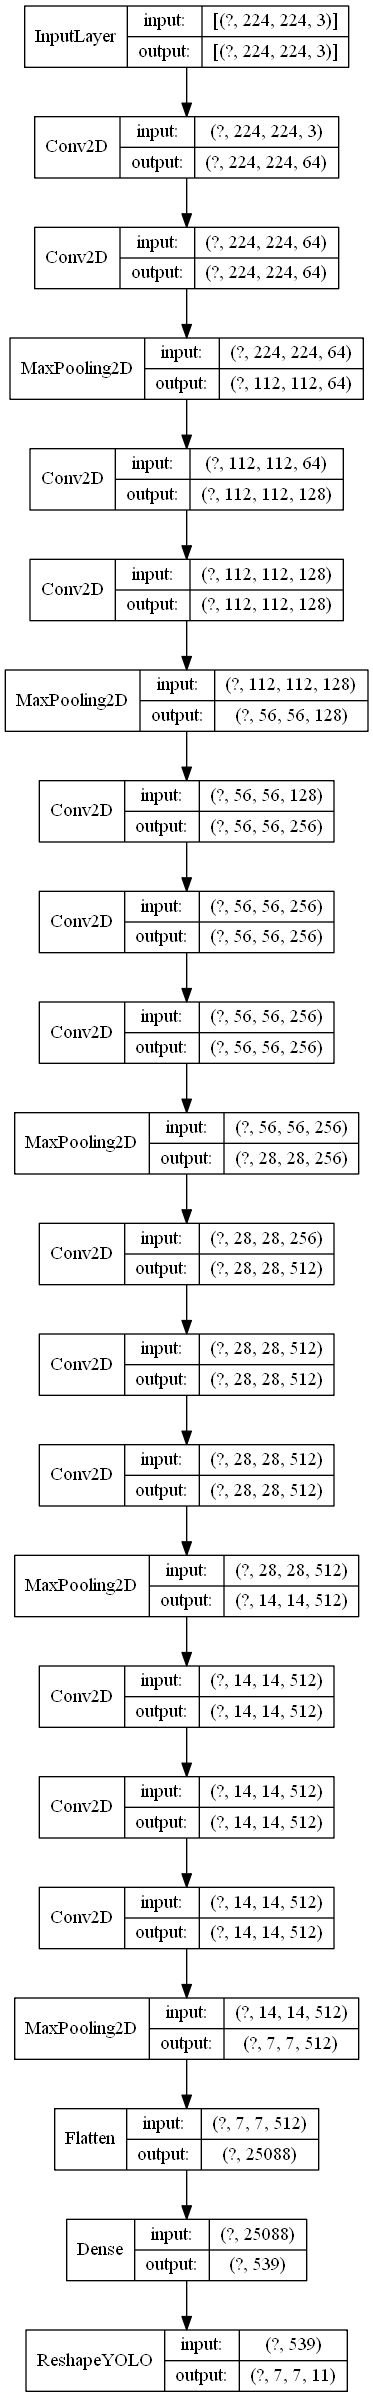
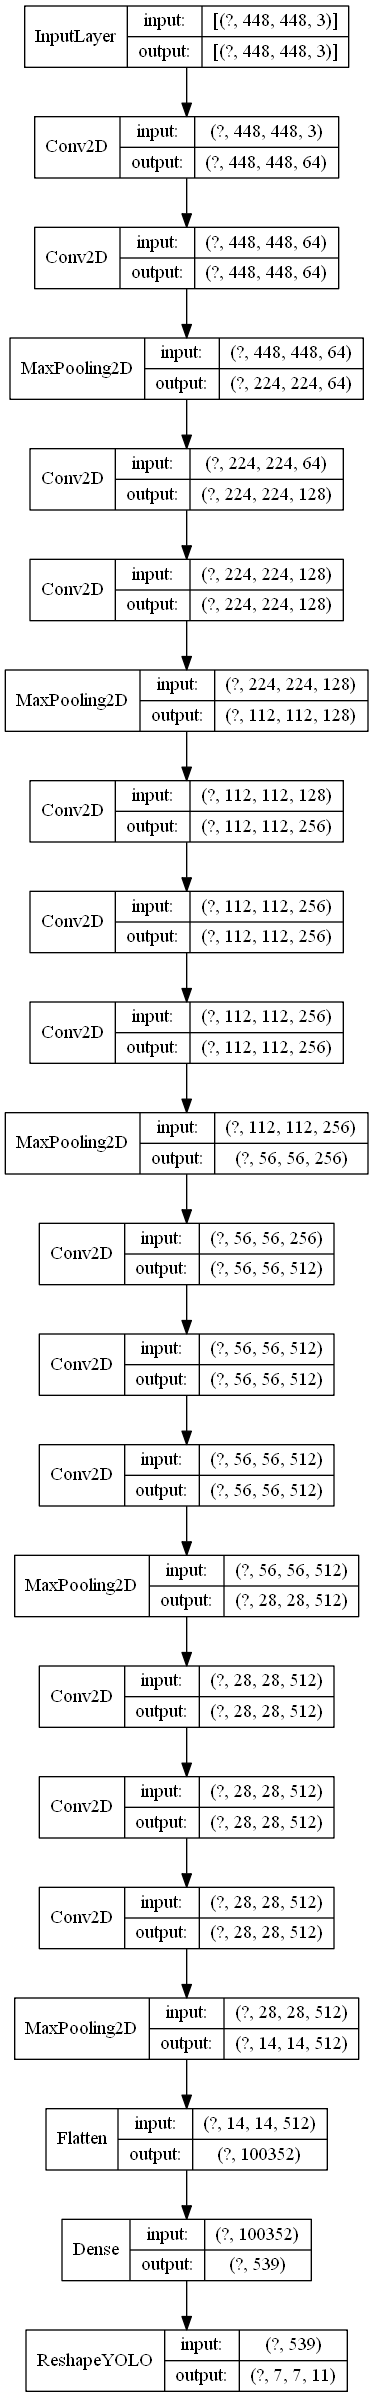
There is something wrong with BN

diff --git a/YOLOv2/trainAirplane.py b/YOLOv2/trainAirplane.py
@@ -1,18 +1,213 @@
 import os
 import tensorflow as tf
+import tensorflow.keras.backend as K
+from tensorflow.keras import Model
+from tensorflow.keras.optimizers import Adam
+from tensorflow.keras.layers import Input, Dense, BatchNormalization
+from tensorflow.keras.callbacks import ModelCheckpoint
 
-from YOLOv1.trainAirplane import ReshapeYOLO, yolo_loss
+from VOC2007.yolo.yolo import yolo_head, iou
+from YOLOv1.trainAirplane import ReshapeYOLO, annotation_path, img_path
+from data_sequence import SequenceForAirplanes
+from utils import X_Y_W_H_To_Min_Max
 
-save_dir = '../checkpoints'
-weights_path = os.path.join(save_dir, 'airplanes-weights.hdf5')
-
-model = tf.keras.models.load_model(
-    weights_path,
-    custom_objects={
-        "ReshapeYOLO": ReshapeYOLO,
-        "yolo_loss": yolo_loss
-    }
-)
+image_size = 448
 
 
-print("Done")
+def yolo_loss(y_true, y_pred):
+    label_class = y_true[..., :1]  # ? * 7 * 7 * 1
+    # 分类
+    label_box = y_true[..., 1:5]  # ? * 7 * 7 * 4
+    # BB1的坐标
+    response_mask = y_true[..., 5]  # ? * 7 * 7
+    # BB1的置信度
+    response_mask = K.expand_dims(response_mask)  # ? * 7 * 7 * 1
+
+    predict_class = y_pred[..., :1]  # ? * 7 * 7 * 1
+    # 分类
+    predict_trust = y_pred[..., 1:3]  # ? * 7 * 7 * 2
+    # BB1和BB2的置信度
+    predict_box = y_pred[..., 3:]  # ? * 7 * 7 * 8
+    # BB1和BB2的坐标
+
+    _label_box = K.reshape(label_box, [-1, 7, 7, 1, 4])
+    _predict_box = K.reshape(predict_box, [-1, 7, 7, 2, 4])
+
+    label_xy, label_wh = yolo_head(_label_box, img_size=image_size)  # ? * 7 * 7 * 1 * 2, ? * 7 * 7 * 1 * 2
+    label_xy = K.expand_dims(label_xy, 3)  # ? * 7 * 7 * 1 * 1 * 2
+    label_wh = K.expand_dims(label_wh, 3)  # ? * 7 * 7 * 1 * 1 * 2
+    label_xy_min, label_xy_max = X_Y_W_H_To_Min_Max(label_xy,
+                                                    label_wh)  # ? * 7 * 7 * 1 * 1 * 2, ? * 7 * 7 * 1 * 1 * 2
+
+    predict_xy, predict_wh = yolo_head(_predict_box, img_size=image_size)  # ? * 7 * 7 * 2 * 2, ? * 7 * 7 * 2 * 2
+    predict_xy = K.expand_dims(predict_xy, 4)  # ? * 7 * 7 * 2 * 1 * 2
+    predict_wh = K.expand_dims(predict_wh, 4)  # ? * 7 * 7 * 2 * 1 * 2
+    predict_xy_min, predict_xy_max = X_Y_W_H_To_Min_Max(predict_xy,
+                                                        predict_wh)  # ? * 7 * 7 * 2 * 1 * 2, ? * 7 * 7 * 2 * 1 * 2
+
+    iou_scores = iou(predict_xy_min, predict_xy_max, label_xy_min, label_xy_max)  # ? * 7 * 7 * 2 * 1
+    best_ious = K.max(iou_scores, axis=4)  # ? * 7 * 7 * 2
+    best_box = K.max(best_ious, axis=3, keepdims=True)  # ? * 7 * 7 * 1
+
+    box_mask = K.cast(best_ious >= best_box, K.dtype(best_ious))  # ? * 7 * 7 * 2
+
+    no_object_loss = 0.5 * (1 - box_mask * response_mask) * K.square(0 - predict_trust)
+    object_loss = box_mask * response_mask * K.square(1 - predict_trust)
+
+    confidence_loss = no_object_loss + object_loss
+    confidence_loss = K.sum(confidence_loss)
+
+    class_loss = response_mask * K.square(label_class - predict_class)
+    class_loss = K.sum(class_loss)
+
+    _label_box = K.reshape(label_box, [-1, 7, 7, 1, 4])
+    _predict_box = K.reshape(predict_box, [-1, 7, 7, 2, 4])
+
+    label_xy, label_wh = yolo_head(_label_box, img_size=image_size)  # ? * 7 * 7 * 1 * 2, ? * 7 * 7 * 1 * 2
+    predict_xy, predict_wh = yolo_head(_predict_box, img_size=image_size)  # ? * 7 * 7 * 2 * 2, ? * 7 * 7 * 2 * 2
+
+    box_mask = K.expand_dims(box_mask)
+    response_mask = K.expand_dims(response_mask)
+
+    box_loss = 5 * box_mask * response_mask * K.square((label_xy - predict_xy) / image_size)
+    box_loss += 5 * box_mask * response_mask * K.square((K.sqrt(label_wh) - K.sqrt(predict_wh)) / image_size)
+    box_loss = K.sum(box_loss)
+    K.print_tensor("Conf Loss")
+    K.print_tensor(confidence_loss)
+    K.print_tensor("Class Loss")
+    K.print_tensor(class_loss)
+    K.print_tensor("Box Loss")
+    K.print_tensor(box_loss)
+    loss = confidence_loss + class_loss + box_loss
+
+    return loss
+
+
+def ChangeInputSize():
+    save_dir = '../checkpoints'
+    model_path = os.path.join(save_dir, 'airplanes-weights.hdf5')
+    previous_model = tf.keras.models.load_model(
+        model_path,
+        custom_objects={
+            "ReshapeYOLO": ReshapeYOLO,
+            "yolo_loss": yolo_loss
+        }
+    )
+    y = Input((448, 448, 3))
+    x = y
+    for layer in previous_model.layers[1:20]:
+        x = layer(x)
+    x = Dense(539, activation='linear', name='connected_0')(x)
+    x = ReshapeYOLO((7, 7, 11))(x)
+    v2 = Model(inputs=y, outputs=x)
+    v2.compile(loss=yolo_loss, optimizer='adam')
+    tf.keras.utils.plot_model(
+        v2,
+        to_file='../model.png',
+        show_shapes=True,
+        show_layer_names=False,
+        rankdir='TB',
+        expand_nested=False,
+        dpi=96
+    )
+    v2.save('..\\TrainedModels\\airplanes-tiny-yolov2.hdf5')
+    print("Done")
+
+
+def AddBatchNorm():
+    model_path = "..\\TrainedModels\\airplanes-tiny-yolov2.hdf5"
+
+    previous_model = tf.keras.models.load_model(
+        model_path,
+        custom_objects={
+            "ReshapeYOLO": ReshapeYOLO,
+            "yolo_loss": yolo_loss
+        }
+    )
+    tf.keras.utils.plot_model(
+        previous_model,
+        to_file='../model.png',
+        show_shapes=True,
+        show_layer_names=False,
+        rankdir='TB',
+        expand_nested=False,
+        dpi=96
+    )
+    x = None
+    for layer in previous_model.layers:
+        if x is not None:
+            x = layer(x)
+            if type(layer) == tf.keras.layers.Conv2D:
+                x = BatchNormalization()(x)
+        elif type(layer) == tf.keras.layers.Conv2D:
+            x = layer.output
+            x = BatchNormalization()(x)
+        print(type(layer))
+    v2 = Model(inputs=previous_model.input, outputs=x)
+    v2.compile(loss=yolo_loss, optimizer='adam')
+    tf.keras.utils.plot_model(
+        v2,
+        to_file='../model2.png',
+        show_shapes=True,
+        show_layer_names=False,
+        rankdir='TB',
+        expand_nested=False,
+        dpi=96
+    )
+    v2.save('..\\TrainedModels\\YOLOv2.hdf5')
+    print("Done")
+
+
+def trainV2():
+    # weights_path = '..\\TrainedModels\\YOLOv2.hdf5'
+    save_dir = '../checkpoints'
+    weights_path = os.path.join(save_dir, 'V2-weights.hdf5')
+    # weights_path = "..\\TrainedModels\\airplanes-tiny-yolov2.hdf5"
+
+    model = tf.keras.models.load_model(
+        weights_path,
+        custom_objects={
+            "ReshapeYOLO": ReshapeYOLO,
+            "yolo_loss": yolo_loss
+        }
+    )
+    tf.keras.utils.plot_model(
+        model,
+        to_file='../model.png',
+        show_shapes=True,
+        show_layer_names=False,
+        rankdir='TB',
+        expand_nested=False,
+        dpi=96
+    )
+    model.compile(loss=yolo_loss, optimizer=Adam(lr=0.0001))
+    input_shape = tuple(model.input.shape[1:])
+    train_generator = SequenceForAirplanes(
+        'train', annotation_path, img_path, input_shape, 8)
+    validation_generator = SequenceForAirplanes(
+        'val', annotation_path, img_path, input_shape, 1)
+    save_dir = '../checkpoints'
+    weights_path = os.path.join(save_dir, 'V2-weights.hdf5')
+    checkpoint = ModelCheckpoint(
+        weights_path,
+        monitor='val_loss',
+        verbose=1,
+        save_weights_only=False,
+        save_best_only=True
+    )
+    with tf.device('/gpu:0'):
+        model.fit_generator(
+            train_generator,
+            steps_per_epoch=len(train_generator),
+            epochs=100,
+            validation_data=validation_generator,
+            validation_steps=len(validation_generator),
+            # use_multiprocessing=True,
+            callbacks=[checkpoint],
+            workers=4,
+            verbose=1
+        )
+
+
+if __name__ == '__main__':
+    trainV2()

diff --git a/YOLOv2/testAirplane.py b/YOLOv2/testAirplane.py
@@ -1,38 +1,39 @@
 import os
+
 import cv2
 import numpy as np
 import tensorflow as tf
-from tensorflow.keras import Model
+
 from VOC2007.tiny_yolov1 import YOLO_head, iou
-from YOLOv1.trainAirplane import model_tiny_YOLOv1, ReshapeYOLO, yolo_loss
-from utils import X_Y_W_H_To_Min_Max, load_img
+from YOLOv1.trainAirplane import ReshapeYOLO
+from YOLOv2.trainAirplane import yolo_loss
+from utils import load_img, X_Y_W_H_To_Min_Max
 
 classes_name = ['aeroplane']
+image_size = 448
 
 
-class TinyYOLOv1(object):
-    def __init__(self, weights_path):
-        self.weights_path = weights_path
-        self.classes_name = ['aeroplane']
-        self.model = tf.keras.models.load_model(
-            self.weights_path,
-            custom_objects={
-                "ReshapeYOLO": ReshapeYOLO,
-                "yolo_loss": yolo_loss
-            }
-        )
-        self.inputs = self.model.input
-
-    def predict(self, input_path):
-        image, _, _ = load_img(path=input_path, shape=self.inputs.shape[1:])
-        image = np.expand_dims(image, axis=0)
-        y = self.model.predict(image, batch_size=1)
-        return y
+def testV2():
+    save_dir = '../checkpoints'
+    weights_path = os.path.join(save_dir, 'V2-weights.hdf5')
+    model = tf.keras.models.load_model(
+        weights_path,
+        custom_objects={
+            "ReshapeYOLO": ReshapeYOLO,
+            "yolo_loss": yolo_loss
+        }
+    )
+    path = '../Data/Images'
+    for e, i in enumerate(os.listdir(path)):
+        if i.startswith("airplane"):
+            predict_single_file(model=model, image_path=os.path.join(path, i))
 
 
-def _main(image_path, tiny_YOLO_v1):
-    prediction = tiny_YOLO_v1.predict(image_path)
+def predict_single_file(model, image_path):
+    image, _, _ = load_img(path=image_path, shape=model.input.shape[1:])
+    image = np.expand_dims(image, axis=0)
 
+    prediction = model.predict(image)
     predict_class = prediction[..., :1]  # 1 * 7 * 7 * 20
     predict_trust = prediction[..., 1:3]  # 1 * 7 * 7 * 2
     predict_box = prediction[..., 3:]  # 1 * 7 * 7 * 8
@@ -60,7 +61,7 @@ def _main(image_path, tiny_YOLO_v1):
     box_classes = np.expand_dims(box_classes, axis=-1)
     box_classes *= filter_mask  # 7 * 7 * 2 * 1
 
-    box_xy, box_wh = YOLO_head(predict_box, img_size=224)  # 7 * 7 * 2 * 2
+    box_xy, box_wh = YOLO_head(predict_box, img_size=image_size)  # 7 * 7 * 2 * 2
     box_xy_min, box_xy_max = X_Y_W_H_To_Min_Max(box_xy, box_wh)  # 7 * 7 * 2 * 2
 
     predict_trust *= filter_mask  # 7 * 7 * 2 * 1
@@ -95,7 +96,7 @@ def _main(image_path, tiny_YOLO_v1):
 
     image = cv2.imread(image_path)
     origin_shape = image.shape[0:2]
-    image = cv2.resize(image, (224, 224))
+    image = cv2.resize(image, (image_size, image_size))
     detect_shape = filter_mask.shape
 
     for i in range(detect_shape[0]):
@@ -109,18 +110,11 @@ def _main(image_path, tiny_YOLO_v1):
                                 (int(box_xy_min[i, j, k, 0]), int(box_xy_min[i, j, k, 1])),
                                 1, 1, (0, 0, 255))
 
-    image = cv2.resize(image, (origin_shape[1], origin_shape[0]))
+    # image = cv2.resize(image, (origin_shape[1], origin_shape[0]))
     cv2.imshow('image', image)
-    cv2.imwrite('..\\Results\\YOLOv1-' + image_path.split("\\")[-1], image)
+    cv2.imwrite('..\\Results\\YOLOv2-' + image_path.split("\\")[-1], image)
     cv2.waitKey(0)
 
 
 if __name__ == '__main__':
-    path = '../Data/Images'
-    tyv1 = TinyYOLOv1('..\\TrainedModels\\airplanes-tiny-yolov1.hdf5')
-    for e, i in enumerate(os.listdir(path)):
-        if i.startswith("4"):
-            _main(
-                image_path=os.path.join(path, i),
-                tiny_YOLO_v1=tyv1
-            )
+    testV2()

diff --git a/YOLOv1/trainAirplane.py b/YOLOv1/trainAirplane.py
@@ -53,7 +53,6 @@ class ReshapeYOLO(Layer):
         boxes = K.reshape(
             inputs[:, idx2:], (K.shape(inputs)[0],) + tuple([S[0], S[1], B * 4]))
         boxes = K.sigmoid(boxes)
-        # return np.array([class_probability, confidence, boxes])
         outputs = K.concatenate([class_probability, confidence, boxes])
         return outputs
 
@@ -195,7 +194,7 @@ def _main():
             ],
             verbose=1
         )
-    model.save_weights('airplanes-tiny-yolov1.hdf5')
+    model.save('..\\TrainedModels\\airplanes-tiny-yolov1.hdf5')
 
 
 if __name__ == '__main__':
